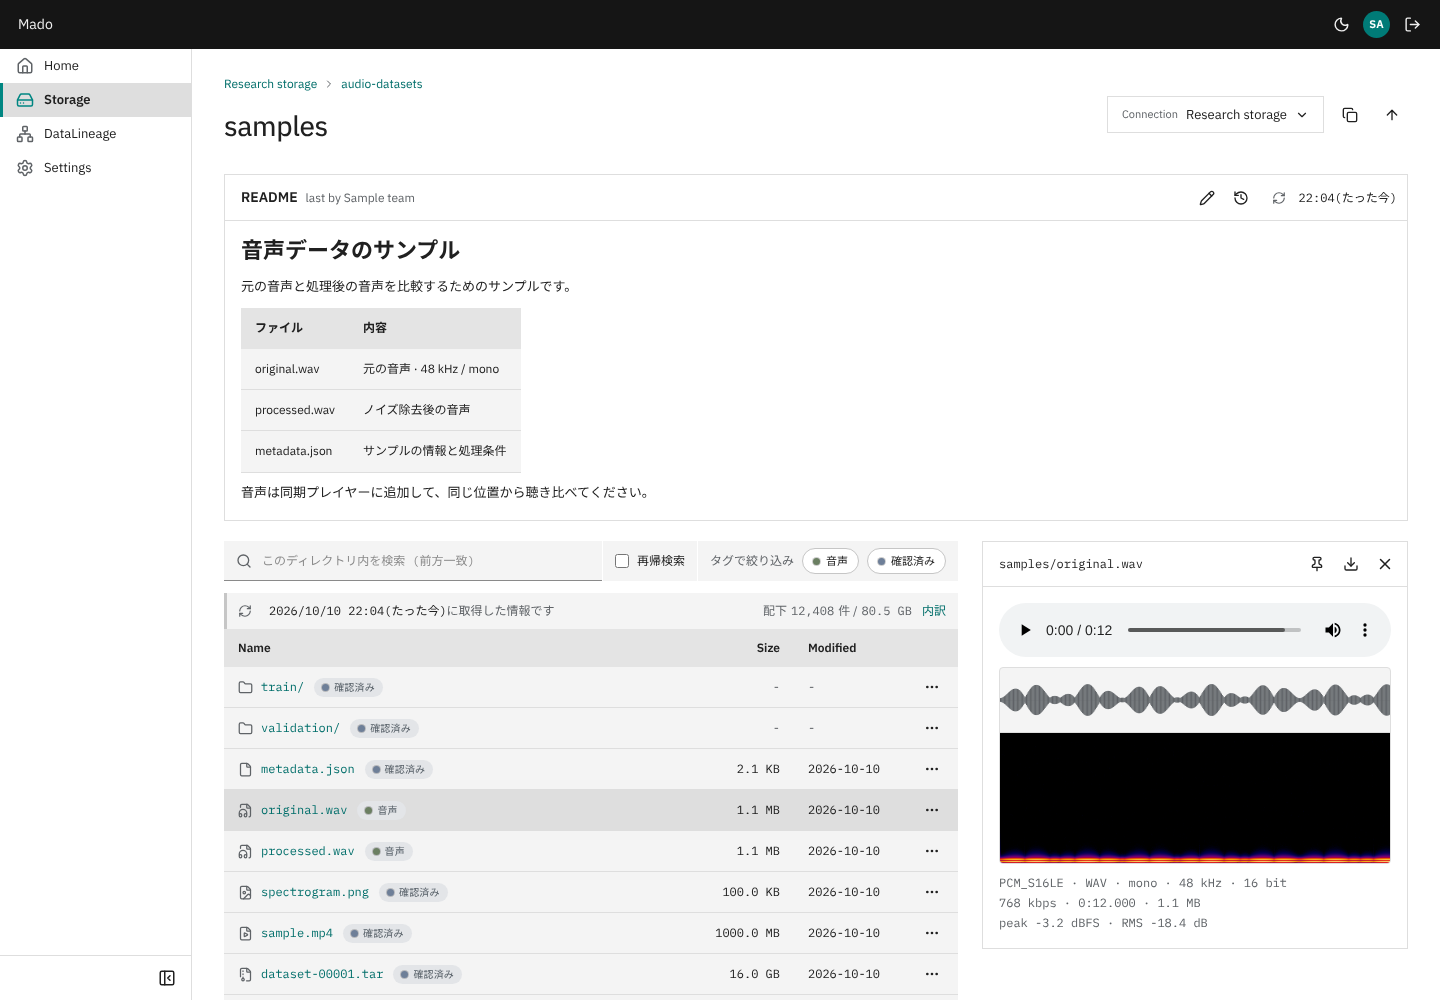
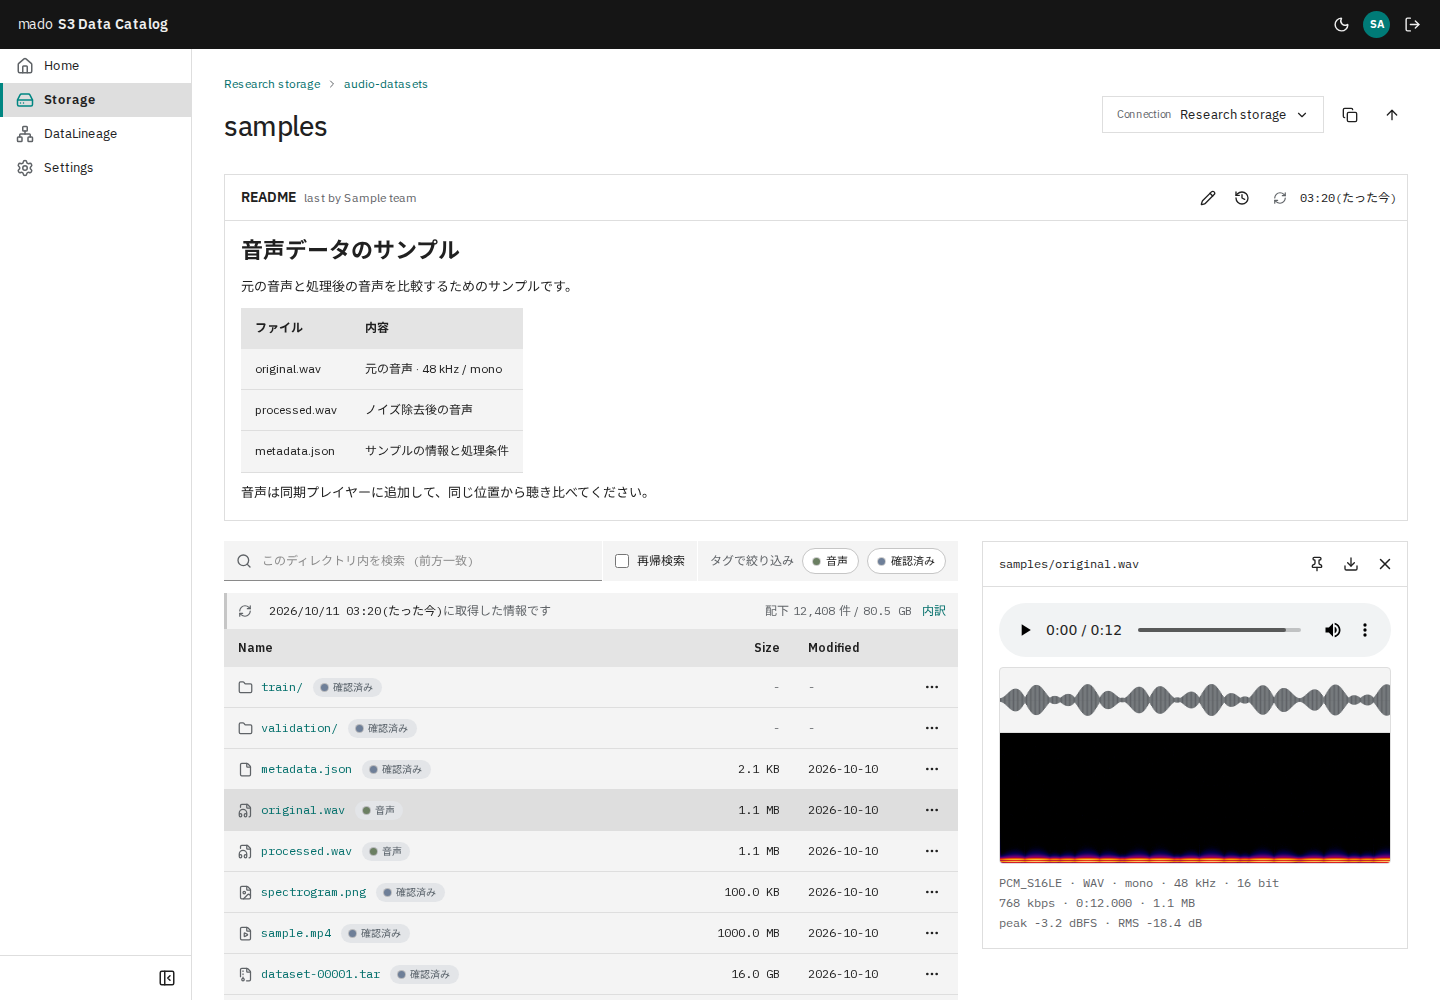
feat(front): 製品名を「mado S3 Data Catalog」にそろえる
上部バー・スマホのメニュー・ログイン画面・パスワード変更画面の名前を、
IBMの製品名と同じく「mado」を通常の太さ、「S3 Data Catalog」を太字で出す。
表記はcomponents/shell/ProductName.tsxにまとめた。ブラウザのタブの題名と
READMEの見出しも同じ名前にした。ログイン画面の小見出し「Data catalog」は
名前と重なるので消した。ドキュメントのスクリーンショット23枚を撮り直した。

diff --git a/front/pages/LoginPage.tsx b/front/pages/LoginPage.tsx
@@ -1,4 +1,5 @@
 import { useState, type FormEvent } from 'react'
+import { ProductName } from '../components/shell/ProductName'
 import { fetchApi } from '../lib/api/http'
 
 /** ログイン画面とパスワード変更画面の見出しの id。重ねて出すときの dialog の名前にも使う。 */
@@ -55,8 +56,7 @@ export function LoginPage({
   return (
     <main className="login-page">
       <section className="login-card" aria-labelledby={AUTH_TITLE_ID}>
-        <div className="login-mark">Mado</div>
-        <p className="login-eyebrow">Data catalog</p>
+        <div className="login-mark"><ProductName /></div>
         <h1 id={AUTH_TITLE_ID}>ログイン</h1>
         {(sessionExpired || idpLogoutIncomplete || overlay) && (
           <div className="login-lead">
@@ -134,7 +134,7 @@ export function ChangePasswordPage({ onChanged }: { onChanged(): Promise<void> }
   return (
     <main className="login-page">
       <section className="login-card" aria-labelledby={AUTH_TITLE_ID}>
-        <div className="login-mark">Mado</div>
+        <div className="login-mark"><ProductName /></div>
         <p className="login-eyebrow">First sign-in</p>
         <h1 id={AUTH_TITLE_ID}>パスワードを変更</h1>
         <div className="login-lead"><p>初回ログイン用パスワードはこの画面で更新してください。</p></div>

diff --git a/front/components/shell/TopBar.tsx b/front/components/shell/TopBar.tsx
@@ -6,6 +6,7 @@ import { initials } from '../../lib/initials'
 import type { Navigation } from '../../lib/useNavigation'
 import { useTheme } from '../../lib/useTheme'
 import { NavigationDrawer } from './NavigationDrawer'
+import { PRODUCT_FULL_NAME, ProductName } from './ProductName'
 
 /**
  * 上部バー: アプリ名、テーマの切り替え、ログイン中の利用者とサインアウト。画面の切り替えは
@@ -33,7 +34,7 @@ export function TopBar({ navigation }: { navigation: Navigation }) {
       <a className="skip-link" href="#content">本文へ移動</a>
       <header className="topbar">
         {navigation.mode === 'drawer' && <NavigationDrawer />}
-        <Link to="/" className="brand" aria-label="Mado ホームへ">Mado</Link>
+        <Link to="/" className="brand" aria-label={`${PRODUCT_FULL_NAME} ホームへ`}><ProductName /></Link>
         <div className="topbar-actions">
           <button
             type="button"

diff --git a/front/components/shell/NavigationDrawer.tsx b/front/components/shell/NavigationDrawer.tsx
@@ -1,6 +1,7 @@
 import { useEffect, useId, useRef, useState, type MouseEvent } from 'react'
 import { Menu, X } from 'lucide-react'
 import { NavigationLinkList } from './NavigationLinkList'
+import { ProductName } from './ProductName'
 
 /**
  * md (900px) 未満の画面の切り替え。上部バーのメニューボタンで左からドロワーを開く。
@@ -48,7 +49,7 @@ export function NavigationDrawer() {
       >
         <div className="navigation-drawer-panel">
           <div className="navigation-drawer-header">
-            <span>Mado</span>
+            <span><ProductName /></span>
             <button
               type="button"
               className="icon-button"

diff --git a/front/components/shell/ProductName.tsx b/front/components/shell/ProductName.tsx
@@ -1,0 +1,16 @@
+/**
+ * 製品名「mado S3 Data Catalog」。IBM の製品名と同じく、前の mado を通常の太さ、
+ * 製品の部分を太字にする。上部バー・ドロワー・ログイン画面で同じ表記にそろえる。
+ */
+export const PRODUCT_PREFIX = 'mado'
+export const PRODUCT_NAME = 'S3 Data Catalog'
+/** 読み上げやタブの題名など、太さを付けられない場所で使う表記。 */
+export const PRODUCT_FULL_NAME = `${PRODUCT_PREFIX} ${PRODUCT_NAME}`
+
+export function ProductName() {
+  return (
+    <>
+      <span className="product-prefix">{PRODUCT_PREFIX}</span> <strong>{PRODUCT_NAME}</strong>
+    </>
+  )
+}

diff --git a/front/styles/common.css b/front/styles/common.css
@@ -6,6 +6,16 @@
   margin: 0;
 }
 
+/* 製品名 (ProductName)。前の mado は通常の太さ、製品の部分は上部バーの .brand strong と同じ 600。
+   ログイン画面の .login-mark は全体が 600 なので、前の部分だけ通常の太さに戻す。 */
+.product-prefix {
+  font-weight: 400;
+}
+.navigation-drawer-header strong,
+.login-mark strong {
+  font-weight: 600;
+}
+
 /* 同期プレイヤーとピン留め (BottomDock) が画面の下に出ている間は、本文の下端が隠れないよう
    ドックの高さ (BottomDock が <html> に書く --bottom-dock-height) だけ余白を広げる。 */
 .page[data-docked='true'] {

diff --git a/front/components/shell/ProductName.test.tsx b/front/components/shell/ProductName.test.tsx
@@ -1,0 +1,12 @@
+import { describe, expect, it } from 'vitest'
+import { render } from '@testing-library/react'
+import { PRODUCT_FULL_NAME, ProductName } from './ProductName'
+
+describe('ProductName', () => {
+  it('mado に続けて S3 Data Catalog を太字で表示する', () => {
+    const { container } = render(<p><ProductName /></p>)
+    expect(container.textContent).toBe(PRODUCT_FULL_NAME)
+    expect(container.querySelector('strong')?.textContent).toBe('S3 Data Catalog')
+    expect(container.querySelector('.product-prefix')?.textContent).toBe('mado')
+  })
+})

diff --git a/front/index.html b/front/index.html
@@ -5,7 +5,7 @@
     <link rel="icon" type="image/png" href="/mado-icon.png" />
     <meta name="viewport" content="width=device-width, initial-scale=1.0" />
     <meta name="color-scheme" content="light dark" />
-    <title>mado</title>
+    <title>mado S3 Data Catalog</title>
   </head>
   <body>
     <div id="root"></div>

diff --git a/README.md b/README.md
@@ -1,4 +1,4 @@
-# mado
+# mado S3 Data Catalog
 
 複数のs3アカウントと多数のバケットを横断的に管理することを目的に開発したwebツール。
 
